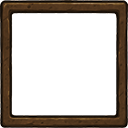
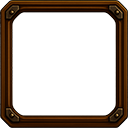
Update inventory UI with animated borders and new layout
Introduced animated side borders, a new header, and bottom borders to enhance the inventory UI. Replaced hardcoded border styles with dynamic layout calculations for improved responsiveness. Added new assets for side, bottom, and header design elements.

Changed region(s): [[0.0, 0.0, 1.0, 1.0]]

diff --git a/app/main/inventory.tsx b/app/main/inventory.tsx
@@ -51,6 +51,8 @@ export default function InventoryScreen() {
     const [isExpanded, setIsExpanded] = useState(false);
     const [showFullList, setShowFullList] = useState(false);
     const [equipmentBottom, setEquipmentBottom] = useState<number | null>(null);
+    const [headerHeight, setHeaderHeight] = useState<number>(HEADER_HEIGHT);
+    const [bottomBorderHeight, setBottomBorderHeight] = useState<number>(0);
 
     const { equippedItems, equipmentCodes } = useEquippedFromCharacter(player?.character);
 
@@ -149,6 +151,15 @@ export default function InventoryScreen() {
     const animatedOverlayStyle = useAnimatedStyle(() => ({
         opacity: overlayOpacity.value,
     }));
+
+    const animatedSideBorderStyle = useAnimatedStyle(() => {
+        // Side borders should span from after header to before bottom border
+        const availableHeight = inventoryHeight.value - headerHeight - bottomBorderHeight;
+        return {
+            top: headerHeight,
+            height: Math.max(0, availableHeight),
+        };
+    });
 
     // Filter out equipped items from inventory - only show unequipped items
     const unequippedItems = React.useMemo(() => {
@@ -361,9 +372,6 @@ export default function InventoryScreen() {
                                 right: 12, // Match px-3 padding
                                 borderTopLeftRadius: 16,
                                 borderTopRightRadius: 16,
-                                borderWidth: 3,
-                                borderColor: '#a67c52',
-                                borderBottomWidth: 3,
                                 zIndex: isExpanded ? 2 : 1,
                                 overflow: 'hidden',
                                 // Shadow to sell the "panel over content" feeling
@@ -379,72 +387,140 @@ export default function InventoryScreen() {
                         <ImageBackground
                             source={require('@/assets/images/dark_leather.png')}
                             resizeMode="repeat"
-                            style={{ flex: 1 }}
+                            style={{ flex: 1, paddingBottom: 14 }}
                             imageStyle={{ opacity: 1.0 }}
                         >
-                            {/* Header with expand/collapse button */}
-                            <Pressable
-                                onPress={() => setIsExpanded((prev) => !prev)}
+                            {/* Left side border */}
+                            <Animated.Image
+                                source={require('@/assets/images/equipment/inventory_side.png')}
+                                resizeMode="repeat"
+                                style={[
+                                    {
+                                        position: 'absolute',
+                                        left: 0,
+                                        width: 10,
+                                    },
+                                    animatedSideBorderStyle,
+                                ]}
+                            />
+                            {/* Right side border */}
+                            <Animated.Image
+                                source={require('@/assets/images/equipment/inventory_side.png')}
+                                resizeMode="repeat"
+                                style={[
+                                    {
+                                        position: 'absolute',
+                                        right: 0,
+                                        width: 10,
+                                    },
+                                    animatedSideBorderStyle,
+                                ]}
+                            />
+                            {/* Bottom border */}
+                            <Image
+                                source={require('@/assets/images/equipment/inventory_bottom.png')}
+                                resizeMode="stretch"
+                                onLayout={(e) => {
+                                    const { height } = e.nativeEvent.layout;
+                                    setBottomBorderHeight(height);
+                                }}
                                 style={{
-                                    flexDirection: 'row',
-                                    justifyContent: 'space-between',
-                                    alignItems: 'center',
-                                    paddingHorizontal: 16,
-                                    paddingVertical: 12,
-                                    borderBottomWidth: 2,
-                                    borderBottomColor: '#8b5a3c',
-                                    backgroundColor: 'rgba(26, 15, 5, 0.7)',
-                                    minHeight: HEADER_HEIGHT,
+                                    position: 'absolute',
+                                    bottom: 0,
+                                    left: 0,
+                                    right: 0,
+                                    width: '100%',
+                                    height: 14,
+                                }}
+                            />
+                            {/* Header with expand/collapse button */}
+                            <View 
+                                style={{ width: '100%' }}
+                                onLayout={(e) => {
+                                    const { height } = e.nativeEvent.layout;
+                                    setHeaderHeight(height);
                                 }}
                             >
-                                <View style={{ flexDirection: 'row', alignItems: 'center', flex: 1 }}>
-                                    <LRText
-                                        weight="black"
-                                        style={{
-                                            color: '#d4a574',
-                                            fontSize: 18,
-                                            textShadowColor: 'rgba(0, 0, 0, 0.8)',
-                                            textShadowOffset: { width: 1, height: 1 },
-                                            textShadowRadius: 3,
-                                            letterSpacing: 0.5,
-                                        }}
-                                    >
-                                        Inventory
-                                    </LRText>
-                                    {!!unequippedItems?.length && (
+                                <ImageBackground
+                                    source={require('@/assets/images/equipment/inventory_head.png')}
+                                    resizeMode="stretch"
+                                    imageStyle={{ width: '100%', height: '100%' }}
+                                    style={{
+                                        position: 'absolute',
+                                        top: 0,
+                                        left: 0,
+                                        right: 0,
+                                        bottom: 0,
+                                        width: '100%',
+                                    }}
+                                />
+                                <Pressable
+                                    onPress={() => setIsExpanded((prev) => !prev)}
+                                    style={{
+                                        flexDirection: 'row',
+                                        alignItems: 'center',
+                                        paddingHorizontal: 16,
+                                        paddingVertical: 12,
+                                        minHeight: HEADER_HEIGHT,
+                                        position: 'relative',
+                                    }}
+                                >
+                                    <View style={{ 
+                                        position: 'absolute', 
+                                        left: 0, 
+                                        right: 0, 
+                                        alignItems: 'center', 
+                                        justifyContent: 'center',
+                                        flexDirection: 'row',
+                                    }}>
+                                        <LRText
+                                            weight="black"
+                                            style={{
+                                                color: '#d4a574',
+                                                fontSize: 18,
+                                                textShadowColor: 'rgba(0, 0, 0, 0.8)',
+                                                textShadowOffset: { width: 1, height: 1 },
+                                                textShadowRadius: 3,
+                                                letterSpacing: 0.5,
+                                            }}
+                                        >
+                                            Inventory
+                                        </LRText>
+                                        {!!unequippedItems?.length && (
+                                            <LRText
+                                                weight="bold"
+                                                style={{
+                                                    marginLeft: 8,
+                                                    fontSize: 13,
+                                                    color: '#b88756',
+                                                    textShadowColor: 'rgba(0, 0, 0, 0.6)',
+                                                    textShadowOffset: { width: 1, height: 1 },
+                                                    textShadowRadius: 2,
+                                                }}
+                                            >
+                                                ({unequippedItems.length})
+                                            </LRText>
+                                        )}
+                                    </View>
+                                    <View style={{ width: 20, alignItems: 'center', justifyContent: 'center', marginLeft: 'auto', paddingRight: 16 }}>
                                         <LRText
                                             weight="bold"
                                             style={{
-                                                marginLeft: 8,
-                                                fontSize: 13,
-                                                color: '#b88756',
+                                                color: '#d4a574',
+                                                fontSize: 14,
                                                 textShadowColor: 'rgba(0, 0, 0, 0.6)',
                                                 textShadowOffset: { width: 1, height: 1 },
                                                 textShadowRadius: 2,
                                             }}
                                         >
-                                            ({unequippedItems.length})
+                                            {isExpanded ? '▼' : '▲'}
                                         </LRText>
-                                    )}
-                                </View>
-                                <View style={{ width: 20, alignItems: 'center', justifyContent: 'center' }}>
-                                    <LRText
-                                        weight="bold"
-                                        style={{
-                                            color: '#d4a574',
-                                            fontSize: 14,
-                                            textShadowColor: 'rgba(0, 0, 0, 0.6)',
-                                            textShadowOffset: { width: 1, height: 1 },
-                                            textShadowRadius: 2,
-                                        }}
-                                    >
-                                        {isExpanded ? '▼' : '▲'}
-                                    </LRText>
-                                </View>
-                            </Pressable>
+                                    </View>
+                                </Pressable>
+                            </View>
 
                             {/* Content area */}
-                            <View style={{ flex: 1, padding: 8, justifyContent: showFullList ? 'flex-start' : 'center' }}>
+                            <View style={{ flex: 1, paddingHorizontal: 28, paddingVertical: 8 }}>
                                 {loading && (
                                     <View className="py-6 items-center justify-center">
                                         <ActivityIndicator color="#d4a574" />
@@ -467,7 +543,7 @@ export default function InventoryScreen() {
                                 )}
 
                         {!loading && !error && (
-                            <View>
+                            <View style={{ flex: 1, justifyContent: showFullList ? 'flex-start' : 'center' }}>
                                 {showFullList ? (
                                     // Show full scrollable list when expanded
                                     <FlatList
@@ -482,7 +558,7 @@ export default function InventoryScreen() {
                                         }}
                                         columnWrapperStyle={{ gap: 4 }}
                                         ListEmptyComponent={
-                                            <View style={{ flex: 1, justifyContent: 'center', alignItems: 'center', minHeight: 200 }}>
+                                            <View style={{ width: '100%', height: '100%', justifyContent: 'center', alignItems: 'center' }}>
                                                 <LRText
                                                     weight="regular"
                                                     style={{
